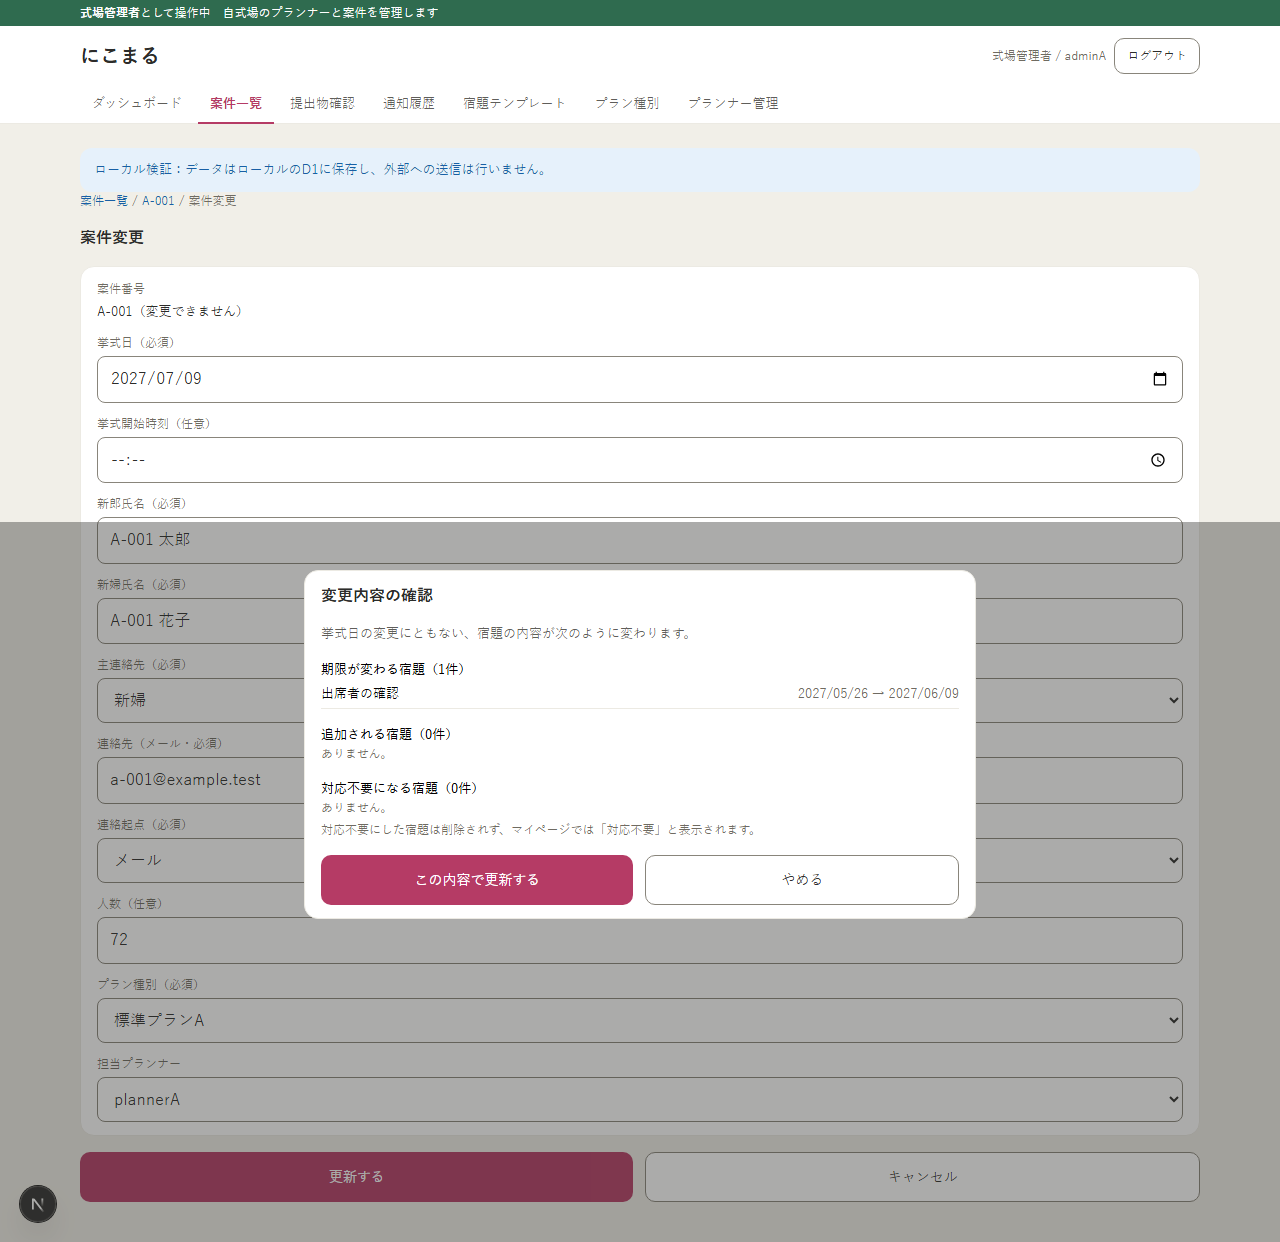
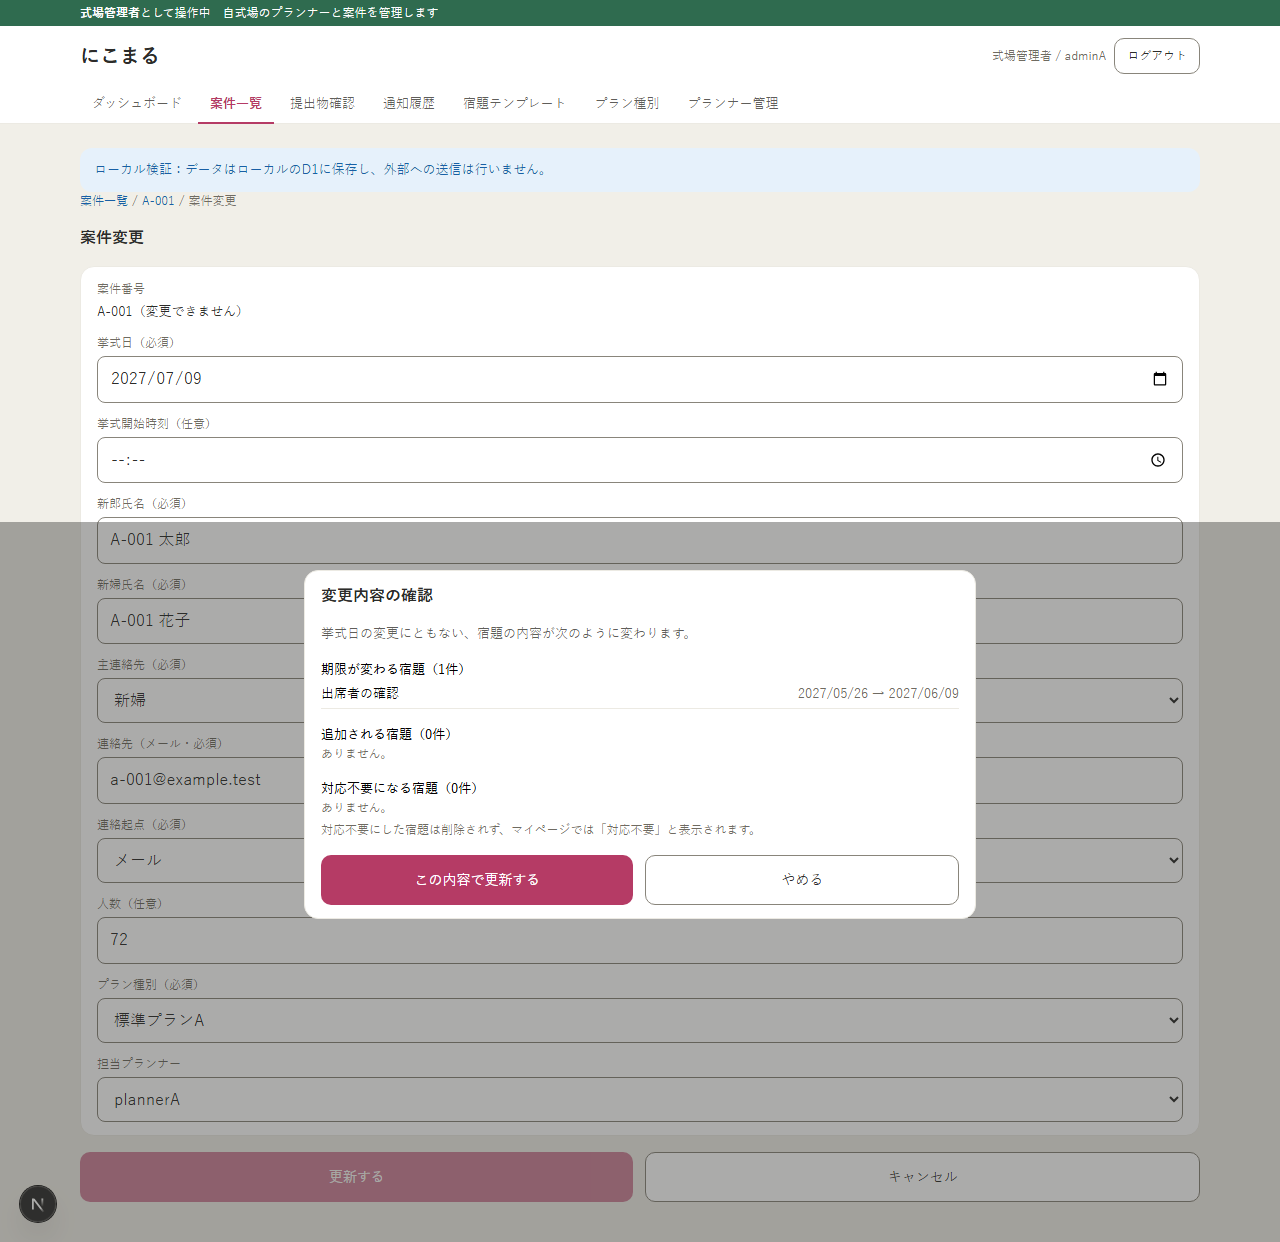
動きを減らす設定・color-scheme・本番でのService Worker登録に対応する
- 「視差効果を減らす」が有効なときは、AI処理中の回転アイコンを止め、入力ミスの欄へのスクロールも一度に移動する
- ルート要素に color-scheme: light を指定し、端末がダークモードでも標準部品をライトにそろえる
- Service Worker の登録が D1 一本化の際に `!true` で常に無効になっていたため、本番ビルドのときだけ登録する形に戻す
- テーマ色はアプリアイコンと同じ色であることをコメントに残す

Changed region(s): [[0.0625, 0.9179, 0.5, 0.9791]]

diff --git a/src/app/layout.tsx b/src/app/layout.tsx
@@ -19,14 +19,19 @@ export const metadata: Metadata = {
 export const viewport: Viewport = {
   width: 'device-width',
   initialScale: 1,
+  // アプリアイコン（public/icons/icon.svg）と同じ色。manifest の theme_color とそろえる
   themeColor: '#D4537E',
+  // CSS（globals.css の color-scheme）より先に、読み込み直後の背景もライトにする
+  colorScheme: 'light',
 };
 export default function RootLayout({ children }: { children: React.ReactNode }) {
   return (
     <html lang="ja">
       <body>
         {children}
-        {!true && <PwaRegistration />}
+        {/* 開発サーバー（npm run dev:d1 など）では登録しない。古い Service Worker が残って
+            再コンパイル後の画面と食い違うのを避ける。本番ビルドではホーム画面追加のために登録する */}
+        {process.env.NODE_ENV === 'production' && <PwaRegistration />}
         <PerformanceReporter />
       </body>
     </html>

diff --git a/src/app/(staff)/cases/[caseId]/edit/CaseEditForm.tsx b/src/app/(staff)/cases/[caseId]/edit/CaseEditForm.tsx
@@ -20,6 +20,7 @@ import { useEffect, useRef, useState } from 'react';
 import { ErrorSummary, FieldError } from '@/components/ui/ErrorSummary';
 import { Modal } from '@/components/ui/Modal';
 import { api, handleApiError } from '@/lib/api/client';
+import { preferredScrollBehavior } from '@/lib/motion';
 import {
   CONTACT_CHANNEL_LABEL,
   INPUT_LIMITS,
@@ -93,7 +94,7 @@ export function CaseEditForm({ caseId, caseCode, initial, plans, planners }: Pro
     if (!firstInvalid) return;
     const input = document.getElementById(firstInvalid);
     input?.focus({ preventScroll: true });
-    input?.scrollIntoView({ block: 'center', behavior: 'smooth' });
+    input?.scrollIntoView({ block: 'center', behavior: preferredScrollBehavior() });
   }, [fieldErrors]);
 
   const fieldA11y = (field: string, helpId?: string) => {

diff --git a/src/app/(staff)/cases/new/CaseForm.tsx b/src/app/(staff)/cases/new/CaseForm.tsx
@@ -14,6 +14,7 @@ import { useEffect, useState } from 'react';
 
 import { ErrorSummary, FieldError } from '@/components/ui/ErrorSummary';
 import { ApiCallError, api } from '@/lib/api/client';
+import { preferredScrollBehavior } from '@/lib/motion';
 import {
   CONTACT_CHANNEL_LABEL,
   INPUT_LIMITS,
@@ -86,7 +87,7 @@ export function CaseForm({ plans, today }: Props) {
     if (!firstInvalid) return;
     const input = document.getElementById(firstInvalid);
     input?.focus({ preventScroll: true });
-    input?.scrollIntoView({ block: 'center', behavior: 'smooth' });
+    input?.scrollIntoView({ block: 'center', behavior: preferredScrollBehavior() });
   }, [fieldErrors]);
 
   const fieldA11y = (field: string, helpId?: string) => {

diff --git a/src/lib/motion.ts b/src/lib/motion.ts
@@ -1,0 +1,8 @@
+/**
+ * 端末で「視差効果を減らす」（prefers-reduced-motion: reduce）が選ばれているときは、
+ * スクロールのアニメーションをやめて一度に移動する。
+ */
+export function preferredScrollBehavior(): ScrollBehavior {
+  if (typeof window === 'undefined' || !window.matchMedia) return 'auto';
+  return window.matchMedia('(prefers-reduced-motion: reduce)').matches ? 'auto' : 'smooth';
+}

diff --git a/src/components/ai/AiNotice.tsx b/src/components/ai/AiNotice.tsx
@@ -145,7 +145,7 @@ export function AiJobState({
       >
         <span
           aria-hidden="true"
-          className="inline-block h-4 w-4 shrink-0 animate-spin rounded-full border-2 border-current border-t-transparent"
+          className="inline-block h-4 w-4 shrink-0 motion-safe:animate-spin rounded-full border-2 border-current border-t-transparent"
         />
         {AI_PENDING_MESSAGE}
       </p>

diff --git a/src/app/globals.css b/src/app/globals.css
@@ -10,6 +10,9 @@
 @layer base {
   html {
     -webkit-text-size-adjust: 100%;
+    /* 配色はライトのみ。端末がダークモードでも、入力欄・スクロールバーなどの標準部品を
+       ライトの見た目にそろえ、ページ背景と食い違わないようにする（ルート要素に指定する） */
+    color-scheme: light;
   }
 
   body {
